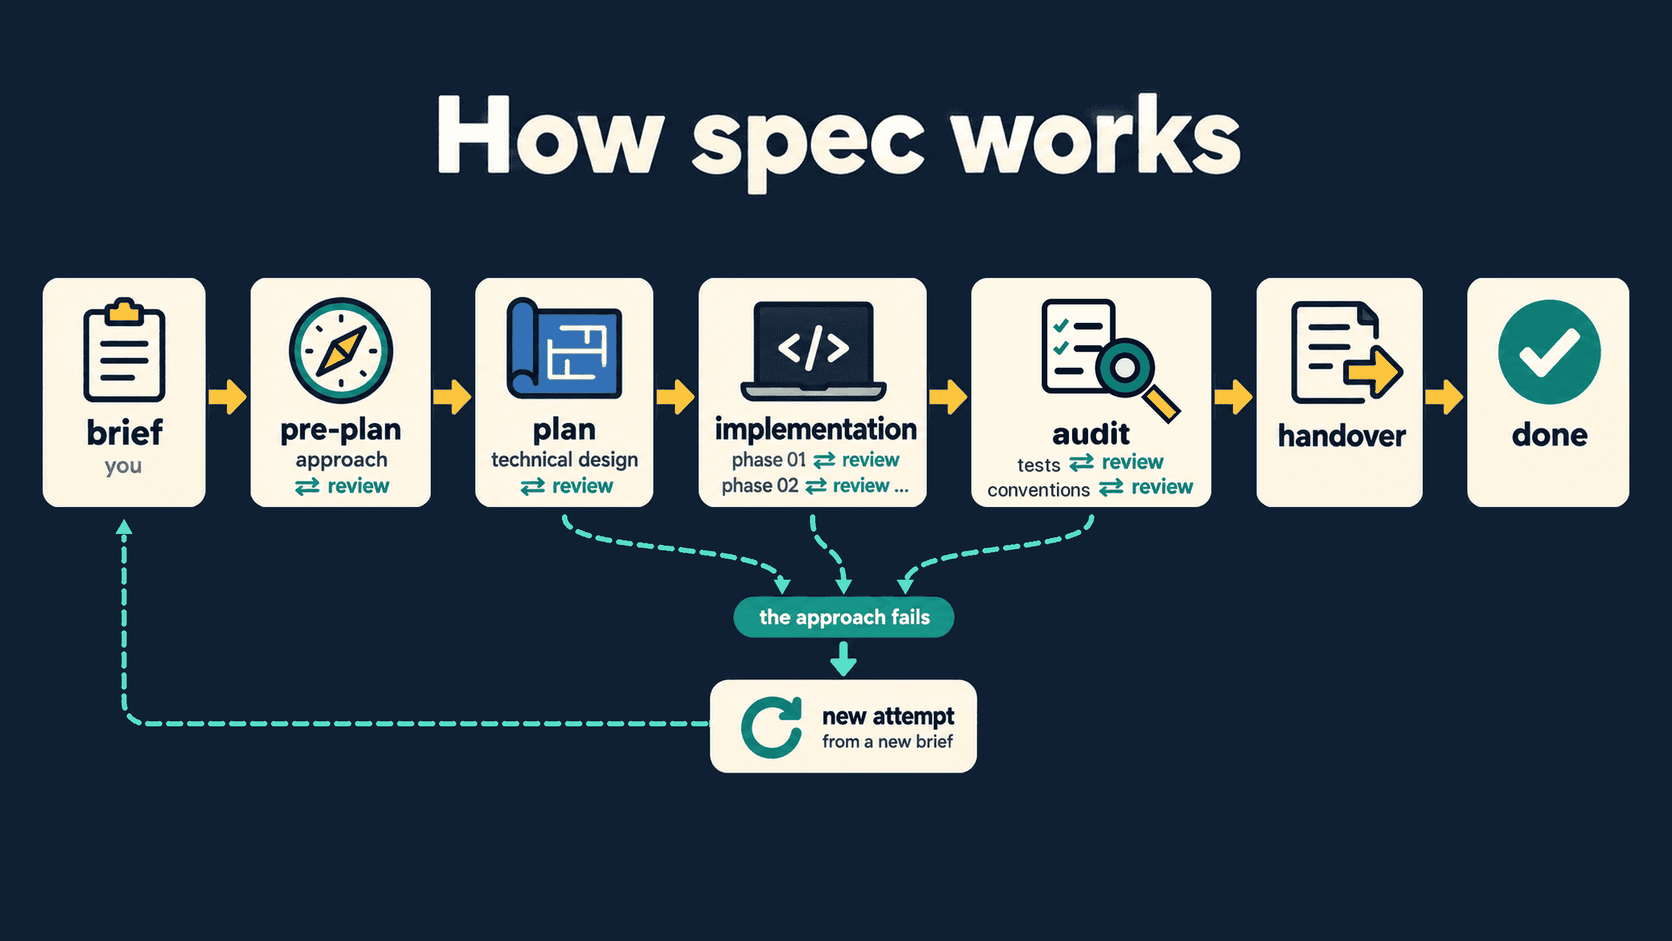
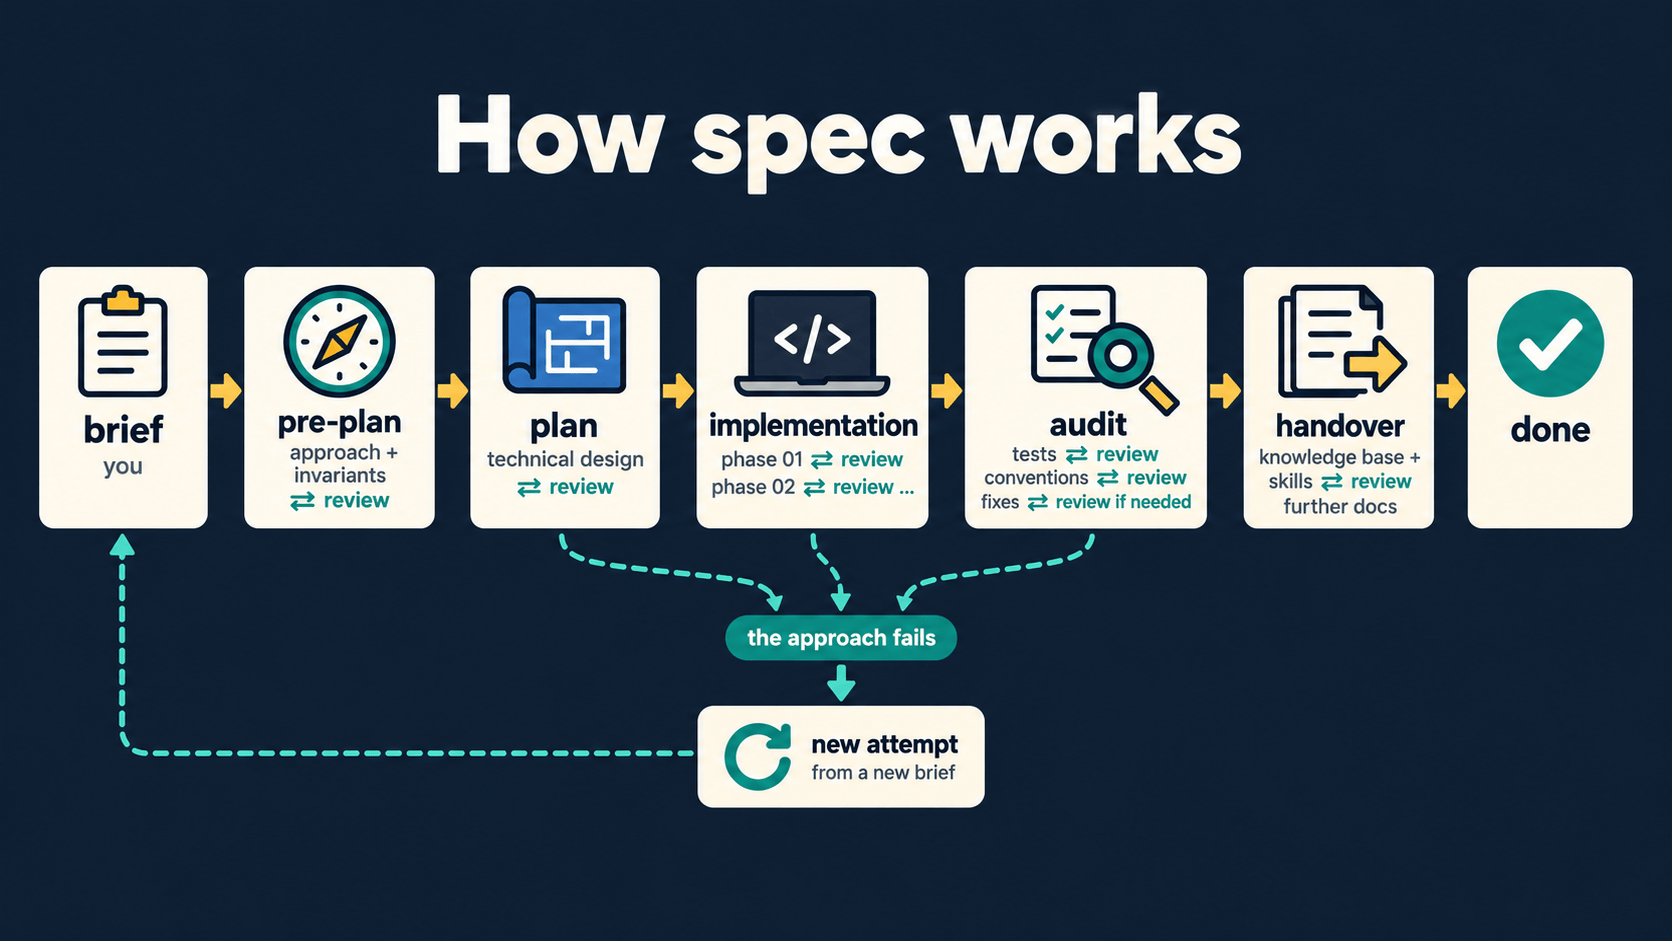
Refresh README workflow diagrams

Changed region(s): [[0.0, 0.2774, 0.9952, 0.8629], [0.6842, 0.1233, 0.7464, 0.1849], [0.4976, 0.1233, 0.5287, 0.1849]]

diff --git a/README.md b/README.md
@@ -23,7 +23,7 @@ every role dips in with a session of its own, on whichever agent you seat. And o
 **no double-dipping.** Nobody reviews their own work.
 
 <p align="center">
-  <img src="assets/fondue-workflow.png" alt="You and the Arbiter exchange the brief and rulings. The Arbiter sends each role only &quot;your turn&quot;. Architect, Architecture Reviewer, Coder, Code Reviewer and Handover Writer each dip their own fork into one shared pot, the spec folder. The Arbiter never touches the pot while the team cooks." width="820">
+  <img src="assets/fondue-workflow.png" alt="You and the Arbiter exchange the brief, questions and rulings. The Arbiter sends each role only &quot;your turn&quot;. Architect, Architecture Reviewer, Coder, Code Reviewer, Tests Auditor, Conventions Auditor and Handover Writer each dip their own fork into one shared pot, the spec folder. The Arbiter reads the pot only to research for you when you ask." width="820">
 </p>
 
 > ⭐ Hey! This fondue is free, and so is a GitHub star ;) You're one click away from making my day!
@@ -112,7 +112,7 @@ Earlier specs ran on earlier versions of the protocol. **Issues and war stories 
 ## 🏗 How spec works
 
 <p align="center">
-  <img src="assets/spec-workflow.png" alt="brief (you), then pre-plan (approach, reviewed), plan (technical design, reviewed), implementation (each phase reviewed), audit (tests, then conventions, each reviewed), handover, done. If the approach fails in plan, implementation or the audit, a new attempt starts from a new brief." width="820">
+  <img src="assets/spec-workflow.png" alt="brief (you), then pre-plan (approach and invariants, reviewed), plan (technical design, reviewed), implementation (each phase reviewed), audit (tests, conventions and any fixes, each reviewed), handover (knowledge base and skills reviewed, then any further documents), done. If the approach fails in plan, implementation or the audit, a new attempt starts from a new brief." width="820">
 </p>
 
 | Role | What they do | Lives for |
@@ -159,7 +159,7 @@ Use it for a bug whose cause is **unknown and takes experiments to find**: inter
 distributed, load-dependent. A bug with a stack trace and an obvious fix doesn't need it.
 
 <p align="center">
-  <img src="assets/hunt-workflow.png" alt="report (you), then hunt (diagnosis, reviewed), fix (red commit, then the fix, reviewed), done." width="820">
+  <img src="assets/hunt-workflow.png" alt="report (you), then hunt (diagnosis, reviewed), fix (red commit, the fix, documentation and knowledge base update, reviewed), done." width="820">
 </p>
 
 - 🕵 **Hunter:** reproduces, localizes and root-causes the bug. Every step of the chain stands on
@@ -176,6 +176,10 @@ distributed, load-dependent. A bug with a stack trace and an obvious fix doesn't
 AI sessions on a big codebase fail in familiar ways: they rebuild what exists under another name,
 and treat existing code as untouchable and build around it. The knowledge base is a map that roles
 read before they design:
+
+<p align="center">
+  <img src="assets/knowledge-base.png" alt="kb.py mechanically packs each codebase module's declarations, wiring and uses. One tool-less model call writes each module card, and the cards generate an index that roles read whole before opening relevant cards. Spec handover and hunt fix refresh changed cards and check them until status is clean. The cards point back to code; they are never evidence themselves." width="820">
+</p>
 
 - `fondue/kb/index.md`: one entry per module, saying what it offers, with other names for the same
   thing, plus every project skill. Small enough to read whole, about 5k tokens for 30-40 modules.
